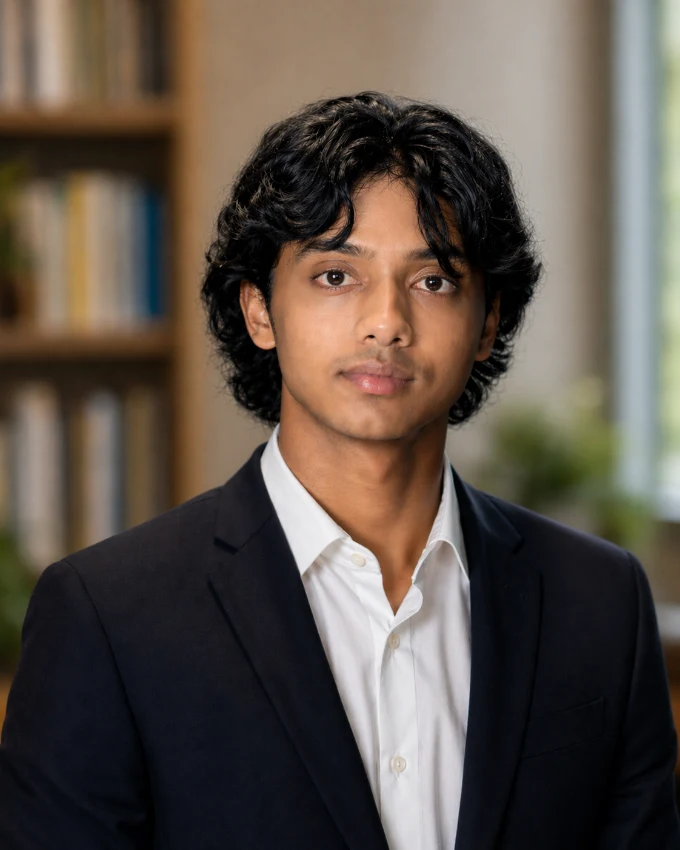
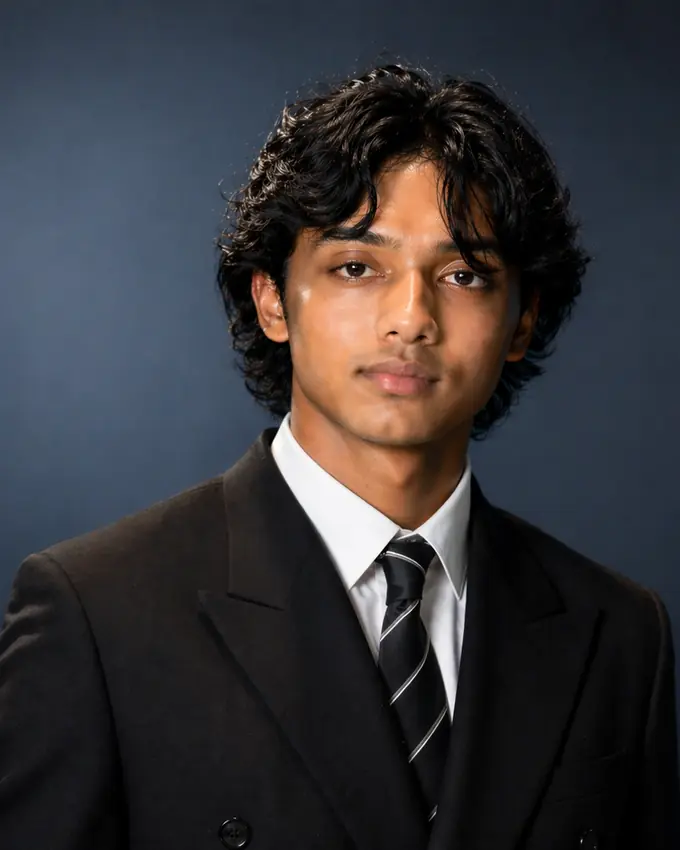
Update academic portrait asset

diff --git a/styles.css b/styles.css
@@ -395,8 +395,8 @@ p + p {
 }
 
 .hero-portrait {
-  width: min(100%, 326px);
-  margin : 0;
+  width: min(100%, 340px);
+  margin: 0;
 }
 
 .hero-portrait img {
@@ -407,7 +407,7 @@ p + p {
   object-fit: cover;
   object-position: center top;
   border: 1px solid var(--line);
-  border-radius: 22px;
+  border-radius: 18px;
   background: var(--surface-subtle);
 }
 
@@ -452,7 +452,7 @@ p + p {
 .hero-rail .rail-block,
 .hero-portrait {
   width: 100%;
-  max-width: 326px;
+  max-width: 340px;
   justify-self: end;
 }
 
